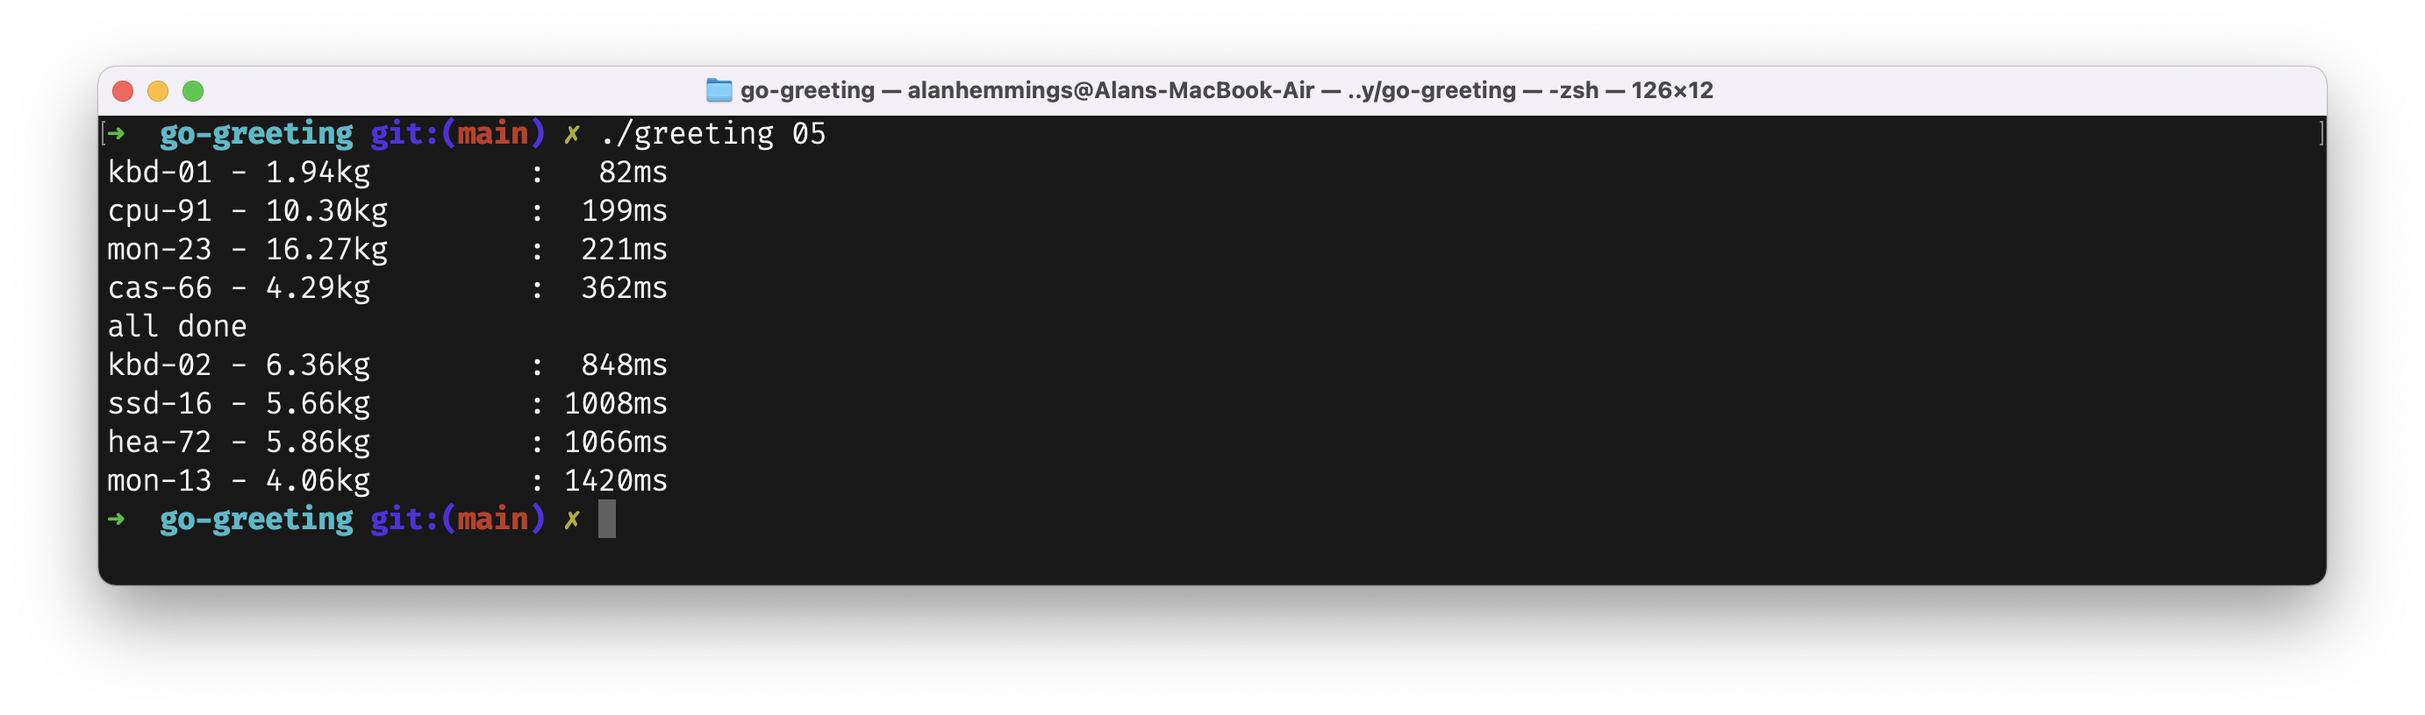
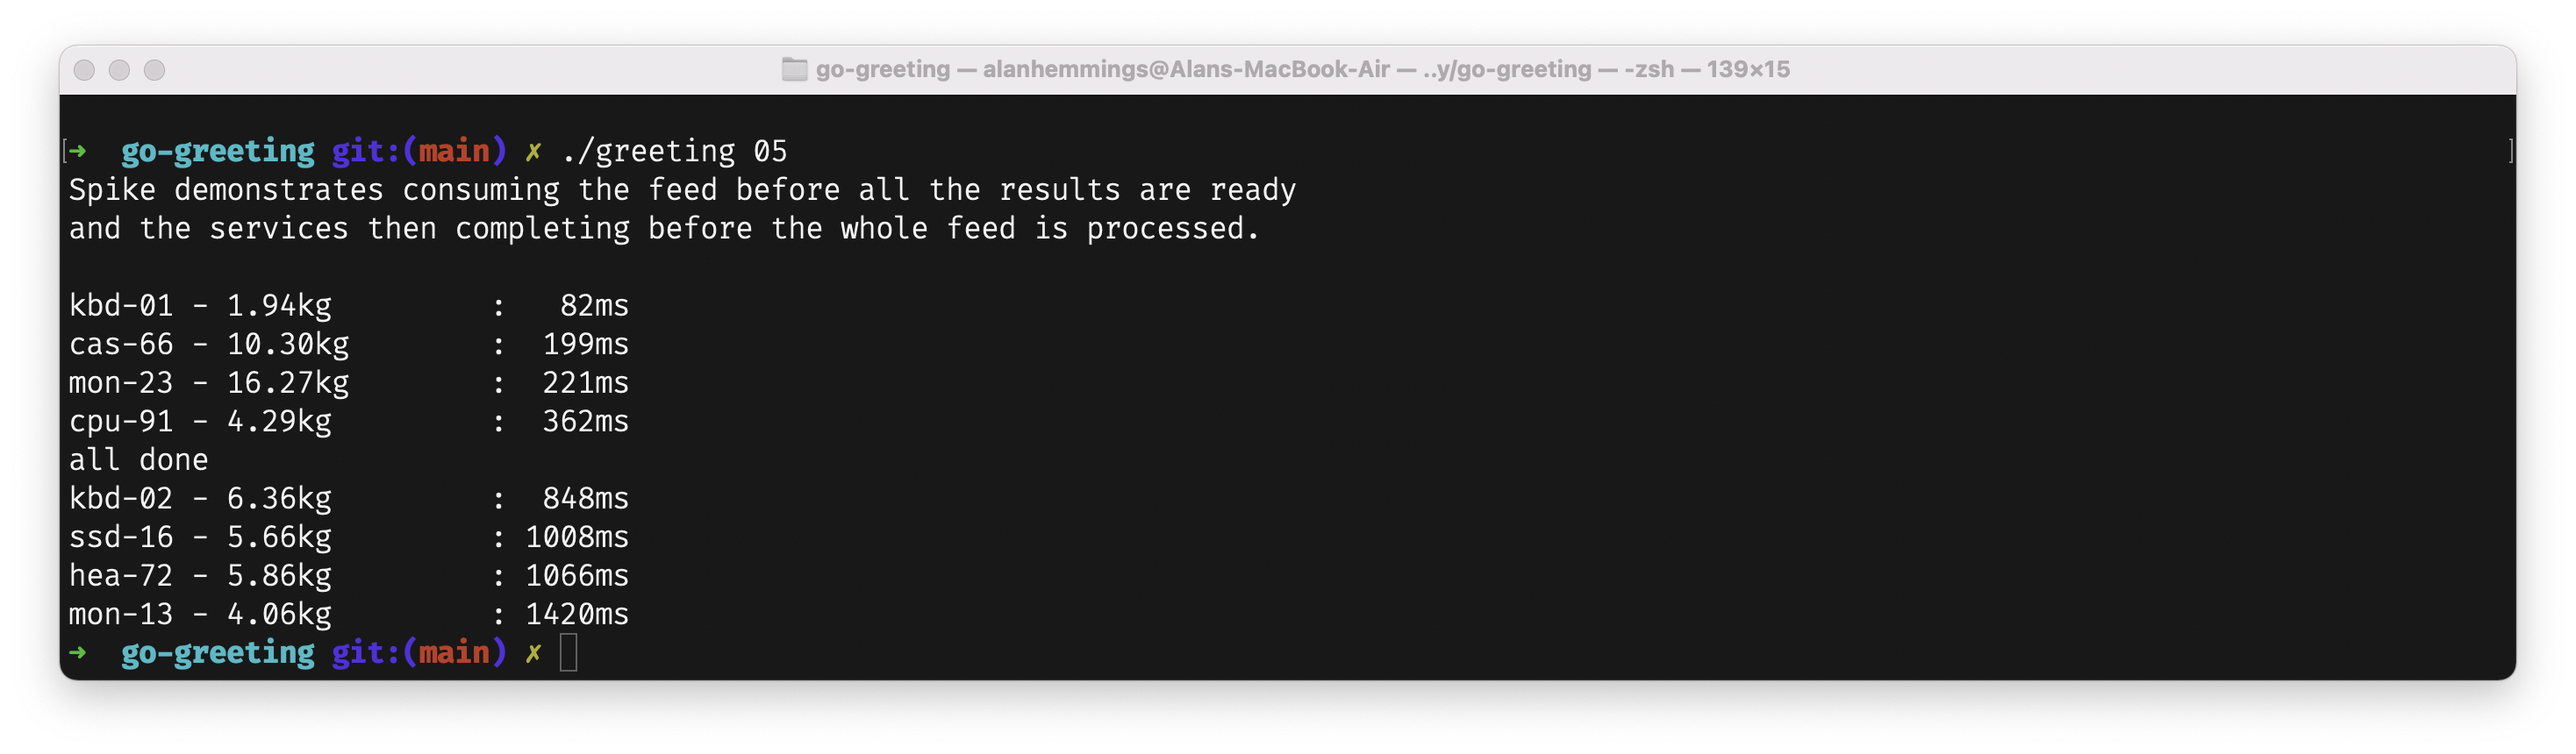
change buffered channels screenshot

Changed region(s): [[0.0, 0.0613, 0.9957, 0.9191]]

diff --git a/pkg/channels/bufferedchannels.go b/pkg/channels/bufferedchannels.go
@@ -11,6 +11,10 @@ import (
 // DemoBufferedChannels shows an example of using a buffered channel to make concurrent calls to a micro-service
 func DemoBufferedChannels() {
 
+	fmt.Println("Spike demonstrates consuming the feed before all the results are ready")
+	fmt.Println("and the services then completing before the whole feed is processed.")
+	fmt.Println("")
+
 	products := []string{
 		"kbd-01",
 		"kbd-02",
@@ -75,10 +79,11 @@ func lookupProductWeight(productID string) float64 {
 }
 
 /*
-spike demonstrates consuming the feed before all the results are ready
-and the services then completing before the whole feed is processed.
 
 Running above code produces
+
+spike demonstrates consuming the feed before all the results are ready
+and the services then completing before the whole feed is processed.
 
 kbd-01 - 1.94kg 	:   81ms
 hea-72 - 10.30kg 	:  203ms
